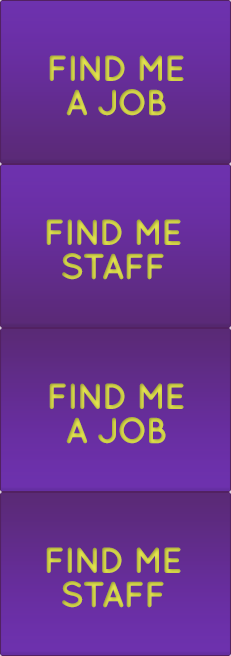
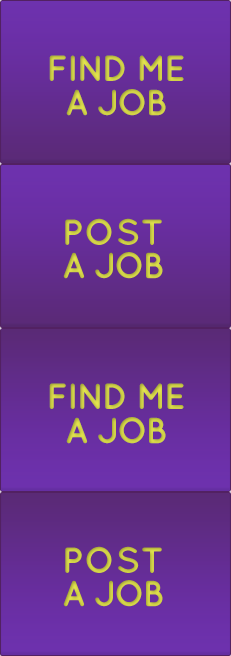
#2 首页中间FIND ME STAFF 换成post a job 按钮，连接至(图片参见jingjob_homepage_V4.psd)

Changed region(s): [[0.1818, 0.8232, 0.7879, 0.9451], [0.1818, 0.3354, 0.7879, 0.4268]]

diff --git a/application/views/default/index.php b/application/views/default/index.php
@@ -31,7 +31,7 @@
 				</div>
 			</div>
 			<div class="pbn-find-block pbn-staff rel">
-				<a href="<?php echo $site_url?>search/findstaff" class="pbn-btn png pbn-btn-staff"></a>
+				<a href="<?php echo $site_url?>job/postjob" class="pbn-btn png pbn-btn-staff"></a>
 				<div class="find-hover png abs">
 					<strong>NEWEST JOB SEEKERS</strong>
 					<ul class="pbn-staff-ul">
